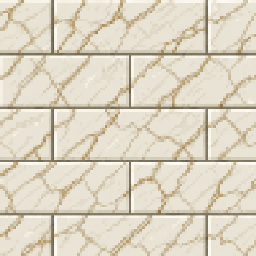
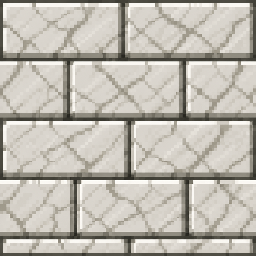
Add crystal region theme and make B100F a terminal floor

diff --git a/js/renderer.js b/js/renderer.js
@@ -40,6 +40,7 @@ const renderer = {
   desertWallTextures: [],
   midDungeonWallTextures: [],
   waterWallTextures: [],
+  crystalWallTextures: [],
   marbleWallTextures: [],
   wallColor: "default",
   floorColor: "default",
@@ -66,6 +67,7 @@ const MIST_PALETTES = {
   yellow: { main: [206, 209, 21], veil: [151, 154, 14], haze: [222, 224, 67], bloom: [244, 226, 116] },
   slate: { main: [90, 108, 104], veil: [62, 77, 74], haze: [125, 143, 138], bloom: [176, 190, 171] },
   water: { main: [62, 123, 204], veil: [35, 83, 151], haze: [102, 158, 224], bloom: [142, 199, 244] },
+  crystal: { main: [116, 24, 114], veil: [78, 18, 91], haze: [158, 62, 170], bloom: [221, 143, 244] },
   white: { main: [235, 235, 235], veil: [210, 210, 210], haze: [245, 245, 245], bloom: [255, 255, 255] }
 };
 const WALL_PALETTES = {
@@ -77,6 +79,7 @@ const WALL_PALETTES = {
   yellow: { base: "#ced115", rows: ["#dadd25", "#a4a711"], mortar: "rgba(61,62,5,.68)", speckle: "rgba(255,250,147,.18)" },
   slate: { base: "#5a6c68", rows: ["#687b76", "#485a56"], mortar: "rgba(19,28,26,.68)", speckle: "rgba(190,211,204,.14)" },
   water: { base: "#3e7bcc", rows: ["#4d8bd9", "#3165ab"], mortar: "rgba(12,35,67,.68)", speckle: "rgba(174,220,255,.17)" },
+  crystal: { base: "rgb(116, 24, 114)", rows: ["rgb(138, 39, 145)", "rgb(82, 18, 96)"], mortar: "rgba(35,8,45,.76)", speckle: "rgba(235,177,255,.22)" },
   white: { base: "#aaa79e", rows: ["#c3c0b5", "#918f88"], mortar: "rgba(55,54,51,.52)", speckle: "rgba(255,255,240,.2)" },
   black: { base: "#28282b", rows: ["#35343a", "#1d1d20"], mortar: "rgba(0,0,0,.82)", speckle: "rgba(151,136,165,.12)" }
 };
@@ -89,6 +92,7 @@ const FLOOR_PALETTES = {
   slate: { near: "#080b0a", mid: "#273431", far: "#5a6c68", grid: "rgba(185,209,201,.09)" },
   water: { near: "#050d18", mid: "#183c6c", far: "#3e7bcc", grid: "rgba(171,218,255,.13)" },
   purple: { near: "#110713", mid: "#35143c", far: "#5d2369", grid: "rgba(226,143,244,.12)" },
+  crystal: { near: "rgb(28, 6, 35)", mid: "rgb(70, 15, 82)", far: "rgb(116, 24, 114)", grid: "rgba(230,159,255,.16)" },
   white: { near: "rgb(170, 170, 170)", mid: "rgb(210, 210, 210)", far: "rgb(235, 235, 235)", grid: "rgba(255,255,255,.2)" },
   black: { near: "#010102", mid: "#08080a", far: "#111116", grid: "rgba(104,94,118,.06)" }
 };
@@ -163,6 +167,7 @@ export function configureRenderer(options) {
   loadDesertWallTextures();
   loadMidDungeonWallTextures();
   loadWaterWallTextures();
+  loadCrystalWallTextures();
   loadMarbleWallTextures();
   renderer.doorTextures = {
     normal: makeDoorTexture("normal"),
@@ -454,6 +459,10 @@ export function drawCeiling() {
     g.addColorStop(0, "rgb(185, 185, 185)");
     g.addColorStop(0.58, "rgb(155, 155, 155)");
     g.addColorStop(1, "rgb(125, 125, 125)");
+  } else if (renderer.floorColor === "crystal") {
+    g.addColorStop(0, "rgb(63, 20, 77)");
+    g.addColorStop(0.58, "rgb(43, 13, 56)");
+    g.addColorStop(1, "rgb(23, 7, 32)");
   } else {
     g.addColorStop(0, "#151918");
     g.addColorStop(0.58, "#0d1010");
@@ -608,6 +617,7 @@ function getThemedWallTextures(color) {
   if (color === "yellow") return renderer.desertWallTextures;
   if (color === "slate") return renderer.midDungeonWallTextures;
   if (color === "water") return renderer.waterWallTextures;
+  if (color === "crystal") return renderer.crystalWallTextures;
   if (color === "white") return renderer.marbleWallTextures;
   return [];
 }
@@ -665,6 +675,13 @@ function loadWaterWallTextures() {
   loadThemedWallTextures("waterWallTextures", "water", [
     "images/dungeon_effects/watar_wall_01.webp",
     "images/dungeon_effects/watar_wall_02.webp"
+  ]);
+}
+
+function loadCrystalWallTextures() {
+  loadThemedWallTextures("crystalWallTextures", "crystal", [
+    "images/dungeon_effects/crystal_wall_01.webp",
+    "images/dungeon_effects/crystal_wall_02.webp"
   ]);
 }
 

diff --git a/js/floorTheme.js b/js/floorTheme.js
@@ -1,5 +1,5 @@
-export const WALL_COLORS = Object.freeze(["default", "red", "blue", "green", "yellow", "slate", "water", "white", "black"]);
-export const FLOOR_COLORS = Object.freeze(["default", "red", "blue", "green", "yellow", "slate", "water", "purple", "white", "black"]);
+export const WALL_COLORS = Object.freeze(["default", "red", "blue", "green", "yellow", "slate", "water", "crystal", "white", "black"]);
+export const FLOOR_COLORS = Object.freeze(["default", "red", "blue", "green", "yellow", "slate", "water", "purple", "crystal", "white", "black"]);
 export const FLOOR_THEME_MODES = Object.freeze({ FIXED: "fixed", RANDOM: "random" });
 
 export function isForcedTorchZeroFloor(depth) {
@@ -62,10 +62,13 @@ export function resolveFloorTheme(depth, current = settings.fixed) {
     return { wall: "water", floor: "water", source: "floor" };
   }
   if (Number(depth) >= 80 && Number(depth) <= 89) {
-    return { wall: "white", floor: "white", source: "floor" };
+    return { wall: "crystal", floor: "crystal", source: "floor" };
   }
   if (Number(depth) >= 90 && Number(depth) <= 99) {
     return { wall: "black", floor: "black", source: "floor" };
+  }
+  if (Number(depth) === 100) {
+    return { wall: "white", floor: "white", source: "floor" };
   }
   const override = settings.floorOverrides.get(depth);
   if (override) return { ...override, source: "floor" };

diff --git a/js/dungeon.js b/js/dungeon.js
@@ -213,8 +213,9 @@ export function validateDungeonLayout({ depth = 1, progress = {} } = {}) {
   }
   const stairsUp = cells.flat().filter(cell => cell.type === "stairsUp");
   const stairsDown = cells.flat().filter(cell => cell.type === "stairsDown");
+  const expectedStairsDown = normalizedDepth === 100 ? 0 : 1;
   if (stairsUp.length !== 1) errors.push(`stairs up count ${stairsUp.length}/1`);
-  if (stairsDown.length !== 1) errors.push(`stairs down count ${stairsDown.length}/1`);
+  if (stairsDown.length !== expectedStairsDown) errors.push(`stairs down count ${stairsDown.length}/${expectedStairsDown}`);
   for (const stairs of [...stairsUp, ...stairsDown]) {
     if (!reachableAfterUnlock.has(`${stairs.x},${stairs.y}`)) errors.push(`stairs unreachable after unlock: ${stairs.x},${stairs.y}`);
   }
@@ -285,8 +286,10 @@ export function placeStairs(depth = 1) {
   cells[startY][startX].portal = floor % 10 === 0 && floor >= 10 && floor <= 100
     ? `transfer_b${floor}f`
     : null;
-  const stairsDown = findFarthestReachableCell(7);
-  if (stairsDown) cells[stairsDown.y][stairsDown.x].type = "stairsDown";
+  if (floor !== 100) {
+    const stairsDown = findFarthestReachableCell(7);
+    if (stairsDown) cells[stairsDown.y][stairsDown.x].type = "stairsDown";
+  }
 }
 
 export function placeNpc(depth = 1, progress = {}) {

diff --git a/js/menu.js b/js/menu.js
@@ -194,8 +194,8 @@ export function getDungeonMistOptions() {
   return { enabled: menu.mistEnabled, intensity: menu.mistIntensity, distance: menu.mistDistance, color: menu.mistColor };
 }
 export function setDungeonColors({ wall, floor } = {}, { save = false } = {}) {
-  if (["default", "stone", "red", "blue", "green", "yellow", "slate", "water", "white", "black"].includes(wall)) menu.wallColor = wall;
-  if (["default", "red", "blue", "green", "yellow", "slate", "water", "purple", "white", "black"].includes(floor)) menu.floorColor = floor;
+  if (["default", "stone", "red", "blue", "green", "yellow", "slate", "water", "crystal", "white", "black"].includes(wall)) menu.wallColor = wall;
+  if (["default", "red", "blue", "green", "yellow", "slate", "water", "purple", "crystal", "white", "black"].includes(floor)) menu.floorColor = floor;
   applyWallColor();
   applyFloorColor();
   updateDebugStates();

diff --git a/js/main.js b/js/main.js
@@ -3229,8 +3229,9 @@ import {
         : currentDepth >= 50 && currentDepth <= 59 ? "green"
           : currentDepth >= 60 && currentDepth <= 69 ? "yellow"
             : currentDepth >= 70 && currentDepth <= 79 ? "water"
-            : currentDepth >= 80 && currentDepth <= 89 ? "white"
+            : currentDepth >= 80 && currentDepth <= 89 ? "crystal"
             : currentDepth >= 90 && currentDepth <= 99 ? "black"
+            : currentDepth === 100 ? "white"
           : options.color;
     setMistOptions({ ...options, color });
   }

diff --git a/index.html b/index.html
@@ -443,7 +443,7 @@
     </section>
   </section>
 </main>
-  <script type="module" src="js/main.js?v=20260822-10"></script>
+  <script type="module" src="js/main.js?v=20260822-11"></script>
   <script type="module" src="js/title-screen.js"></script>
 </body>
 </html>

diff --git a/docs/review-findings.md b/docs/review-findings.md
@@ -385,8 +385,9 @@
 - B84F到達時に「深淵への大行軍再び」を解除し、実績ジングルとポップアップ終了後にZ「トーラス」のカード取得演出を表示する。未達成時のヒントは「？？？？？？――タフすぎて損はない」とする。
 - 根拠：カード定義、最大HP計算、階層境界・上限・町、非累積、主要な能力参照経路の回帰テストを追加。ローカルNode全642件成功（失敗0件、2026-08-22）。Python検証はローカル環境でランチャーを利用できないため未実施。コミット／CIはCodex側では未実施。
 
-### 2026-08-22 B80F～B89F大理石区域テーマ
+### 2026-08-22 B80F～B89F結晶区域・B100F大理石区域テーマ
 
-- B80F～B89Fの壁を `marble_wall_01.webp` と `marble_wall_02.webp` へ切り替えた。
-- 床と霧の白主色はRGB(235, 235, 235)。床はRGB(170, 170, 170)、RGB(210, 210, 210)、RGB(235, 235, 235)の白～灰白グラデーションを使用する。天井は白飛びを抑えるため、RGB(185, 185, 185)、RGB(155, 155, 155)、RGB(125, 125, 125)へ暗くした。霧は主色RGB(235, 235, 235)、ベールRGB(210, 210, 210)、霞RGB(245, 245, 245)、光彩RGB(255, 255, 255)とする。
-- 根拠：B80F～B89F限定のテーマ選択、壁画像パス、白い天井・床・霧、前後階層との境界を回帰テストで確認。ローカルNode全643件成功（失敗0件、2026-08-22）。Python検証は画像・描画テーマ変更のため未実施。コミット／CIはCodex側では未実施。
+- B80F～B89Fの壁を `crystal_wall_01.webp` と `crystal_wall_02.webp` へ切り替えた。壁・床遠景・霧主色はRGB(116, 24, 114)、天井基準色はRGB(63, 20, 77)とする。
+- 大理石壁 `marble_wall_01.webp` と `marble_wall_02.webp` はB100Fだけに適用する。床と霧の白主色はRGB(235, 235, 235)、天井はRGB(185, 185, 185)からRGB(125, 125, 125)のグラデーションを使用する。
+- B100Fは終端階として上り階段（転送門併設）だけを生成し、下り階段は生成・表示しない。
+- 根拠：B80F～B89F限定の結晶テーマ、B100F限定の大理石テーマ、画像パス、色指定、B99Fの下り階段維持、B100Fの下り階段0件と生成検証を回帰テストで確認。ローカルNode全645件成功（失敗0件、2026-08-22）。Python検証は画像・描画・階段生成変更のため未実施。コミット／CIはCodex側では未実施。

diff --git a/README.md b/README.md
@@ -51,7 +51,7 @@ PC、スマートフォン、タブレットに対応しています。開発中
 - B30F～B39Fの赤い壁・床・霧と、専用装備で無効化できる火炎床ダメージ
 - B40F～B49Fの氷壁・床・霧と、専用装備で無効化できる凍結床ダメージ
 - B50F～B59Fの森林壁・床・霧と、区域固有の障害物・イベント小部屋
-- B60F～B69Fの砂漠、B70F～B79Fの激流、B80F～B89Fの大理石、B90F～B99Fの漆黒区域テーマ
+- B60F～B69Fの砂漠、B70F～B79Fの激流、B80F～B89Fの結晶、B90F～B99Fの漆黒区域テーマ
 - 砂漠区域の流砂・オアシスと、激流区域の方向付き水流ギミック
 - 区域ごとに変化する通常敵、複数敵編成、属性相性、状態異常攻撃
 - B90F～B99Fのたいまつゲージ強制消失と、専用カードによる視界・ミニマップ効果の維持
